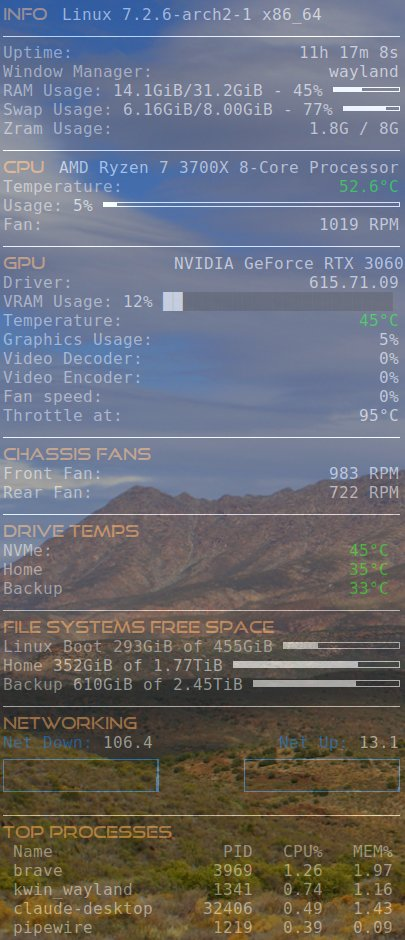
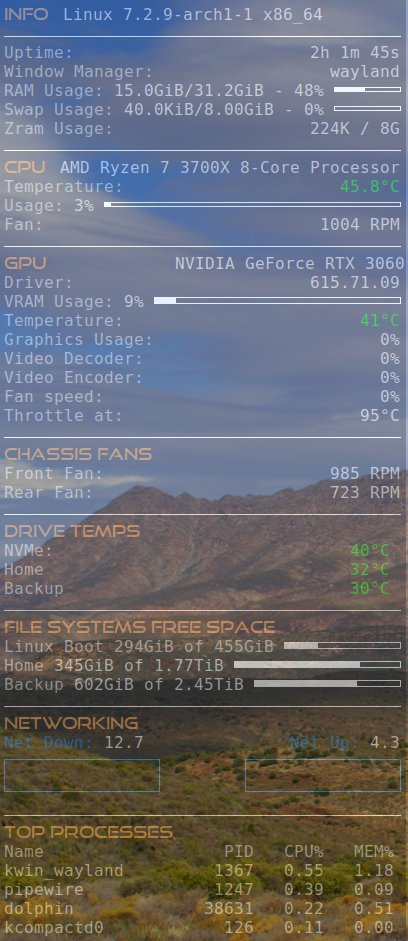
Native VRAM bar, left-align Top Processes, update README and screenshot

diff --git a/README.md b/README.md
@@ -75,3 +75,8 @@ I fixed conky's window pinning to monitor 3, which had drifted after rotating mo
 1. Label text was hard to read against the background, so the label colours are now defined once in conky.config as color1 (#D8D8D8, labels, was X11 grey #BEBEBE) and color2 (#E8E8E8, top-process rows, was lightgrey #D3D3D3). Every hardcoded grey/lightgrey in conky.conf and gpu_stats.sh now uses these, so brightness can be tuned in one place.
 2. Top Processes header re-spaced so the Name / PID / CPU% / MEM% titles line up better with the columns below.
 3. Screenshot updated.
+
+# Changes 9 October 2026
+1. The VRAM Usage bar now uses conky's native `execibar` (fed from `/tmp/gpu_vram_perc`, written by gpu_stats.sh) instead of the text-block bar, so it looks the same as the CPU, RAM and swap bars.
+2. Top Processes: removed the leading space so the Name column and header align left with the rest of the display; the PID, CPU% and MEM% columns stay where they were.
+3. Screenshot updated.
